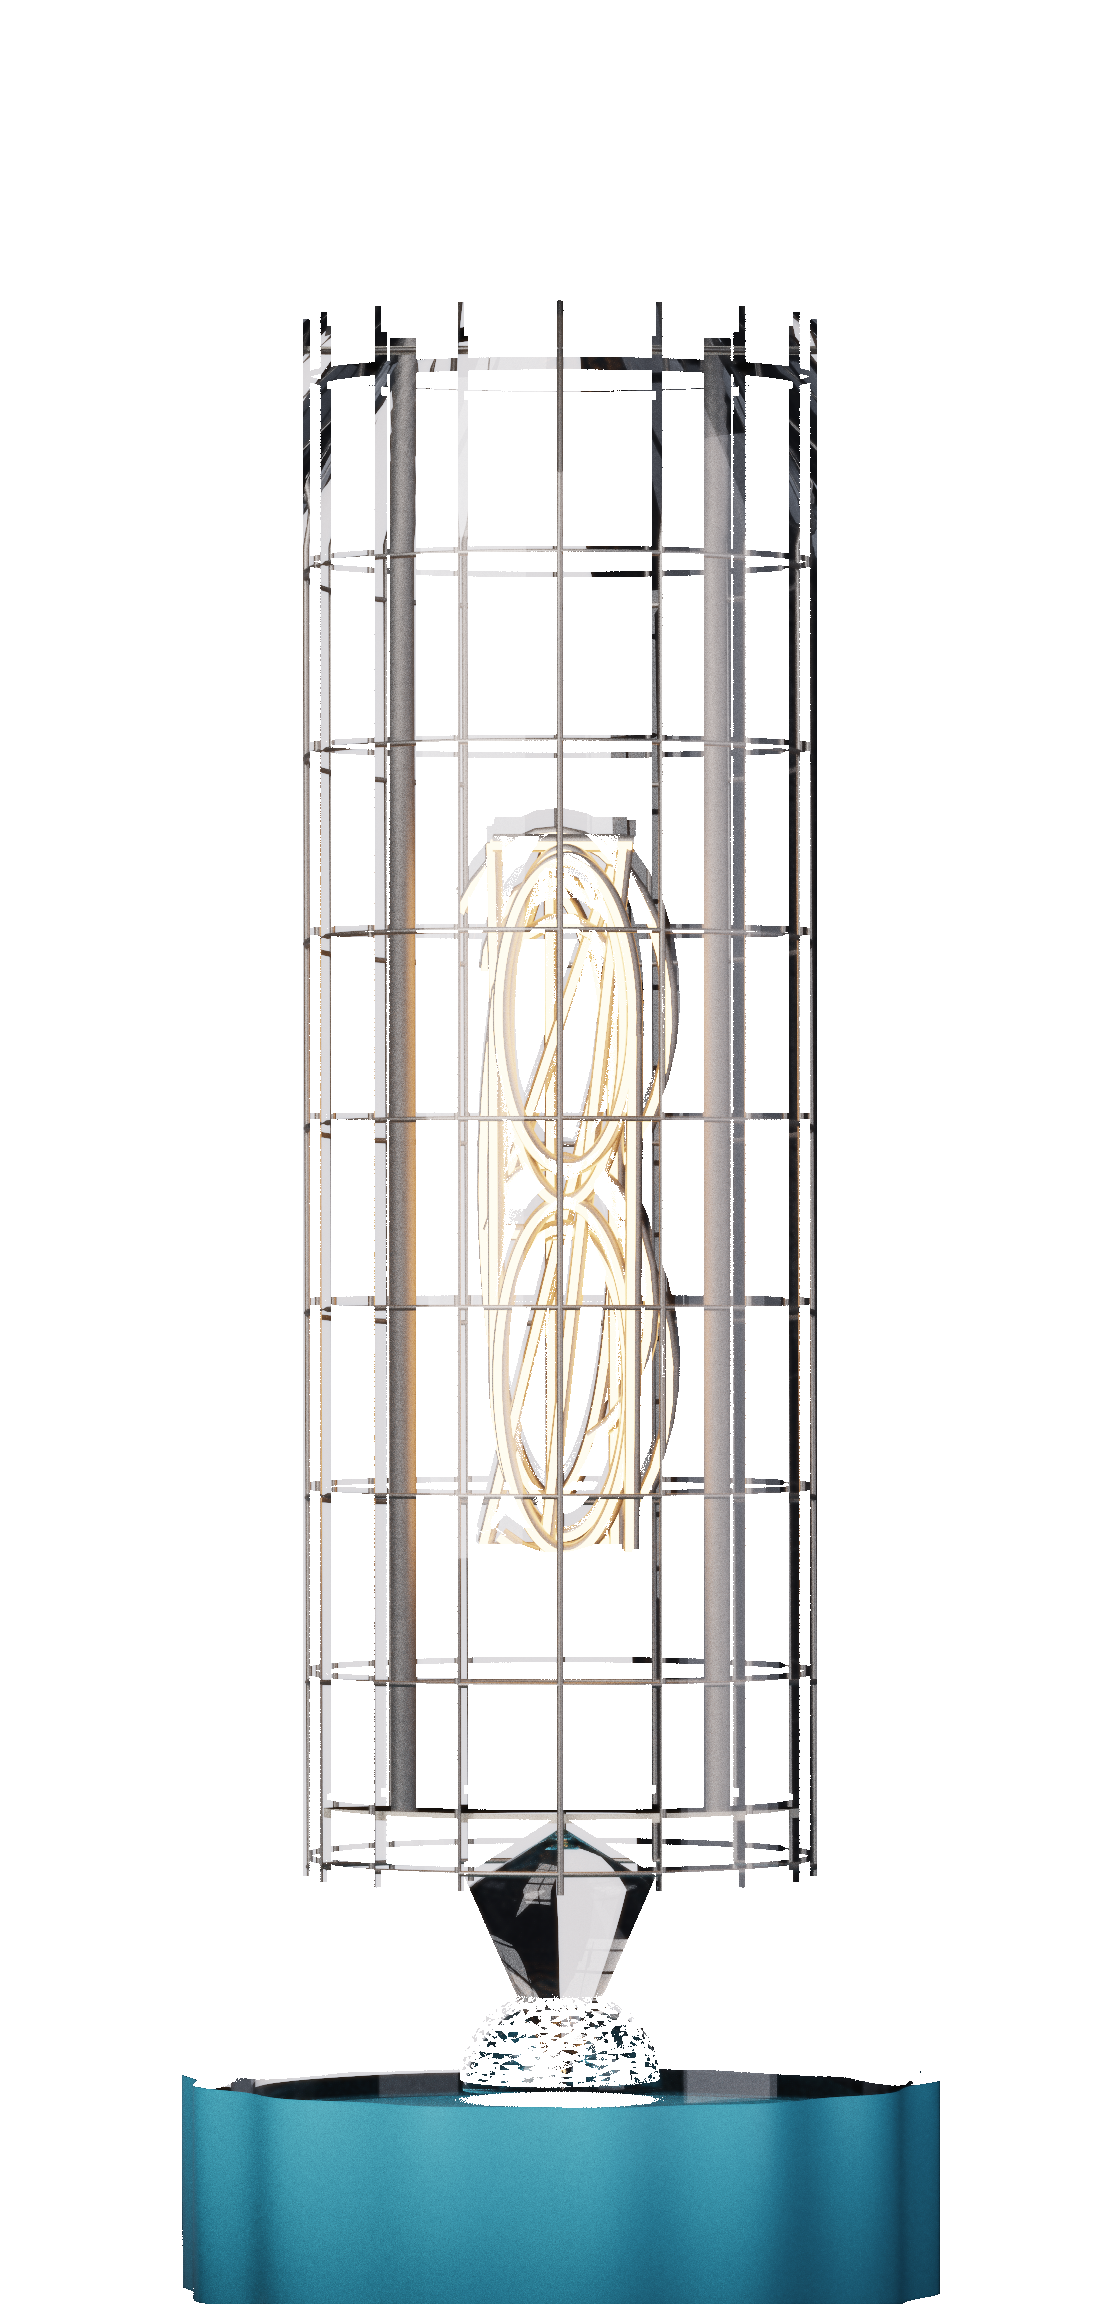
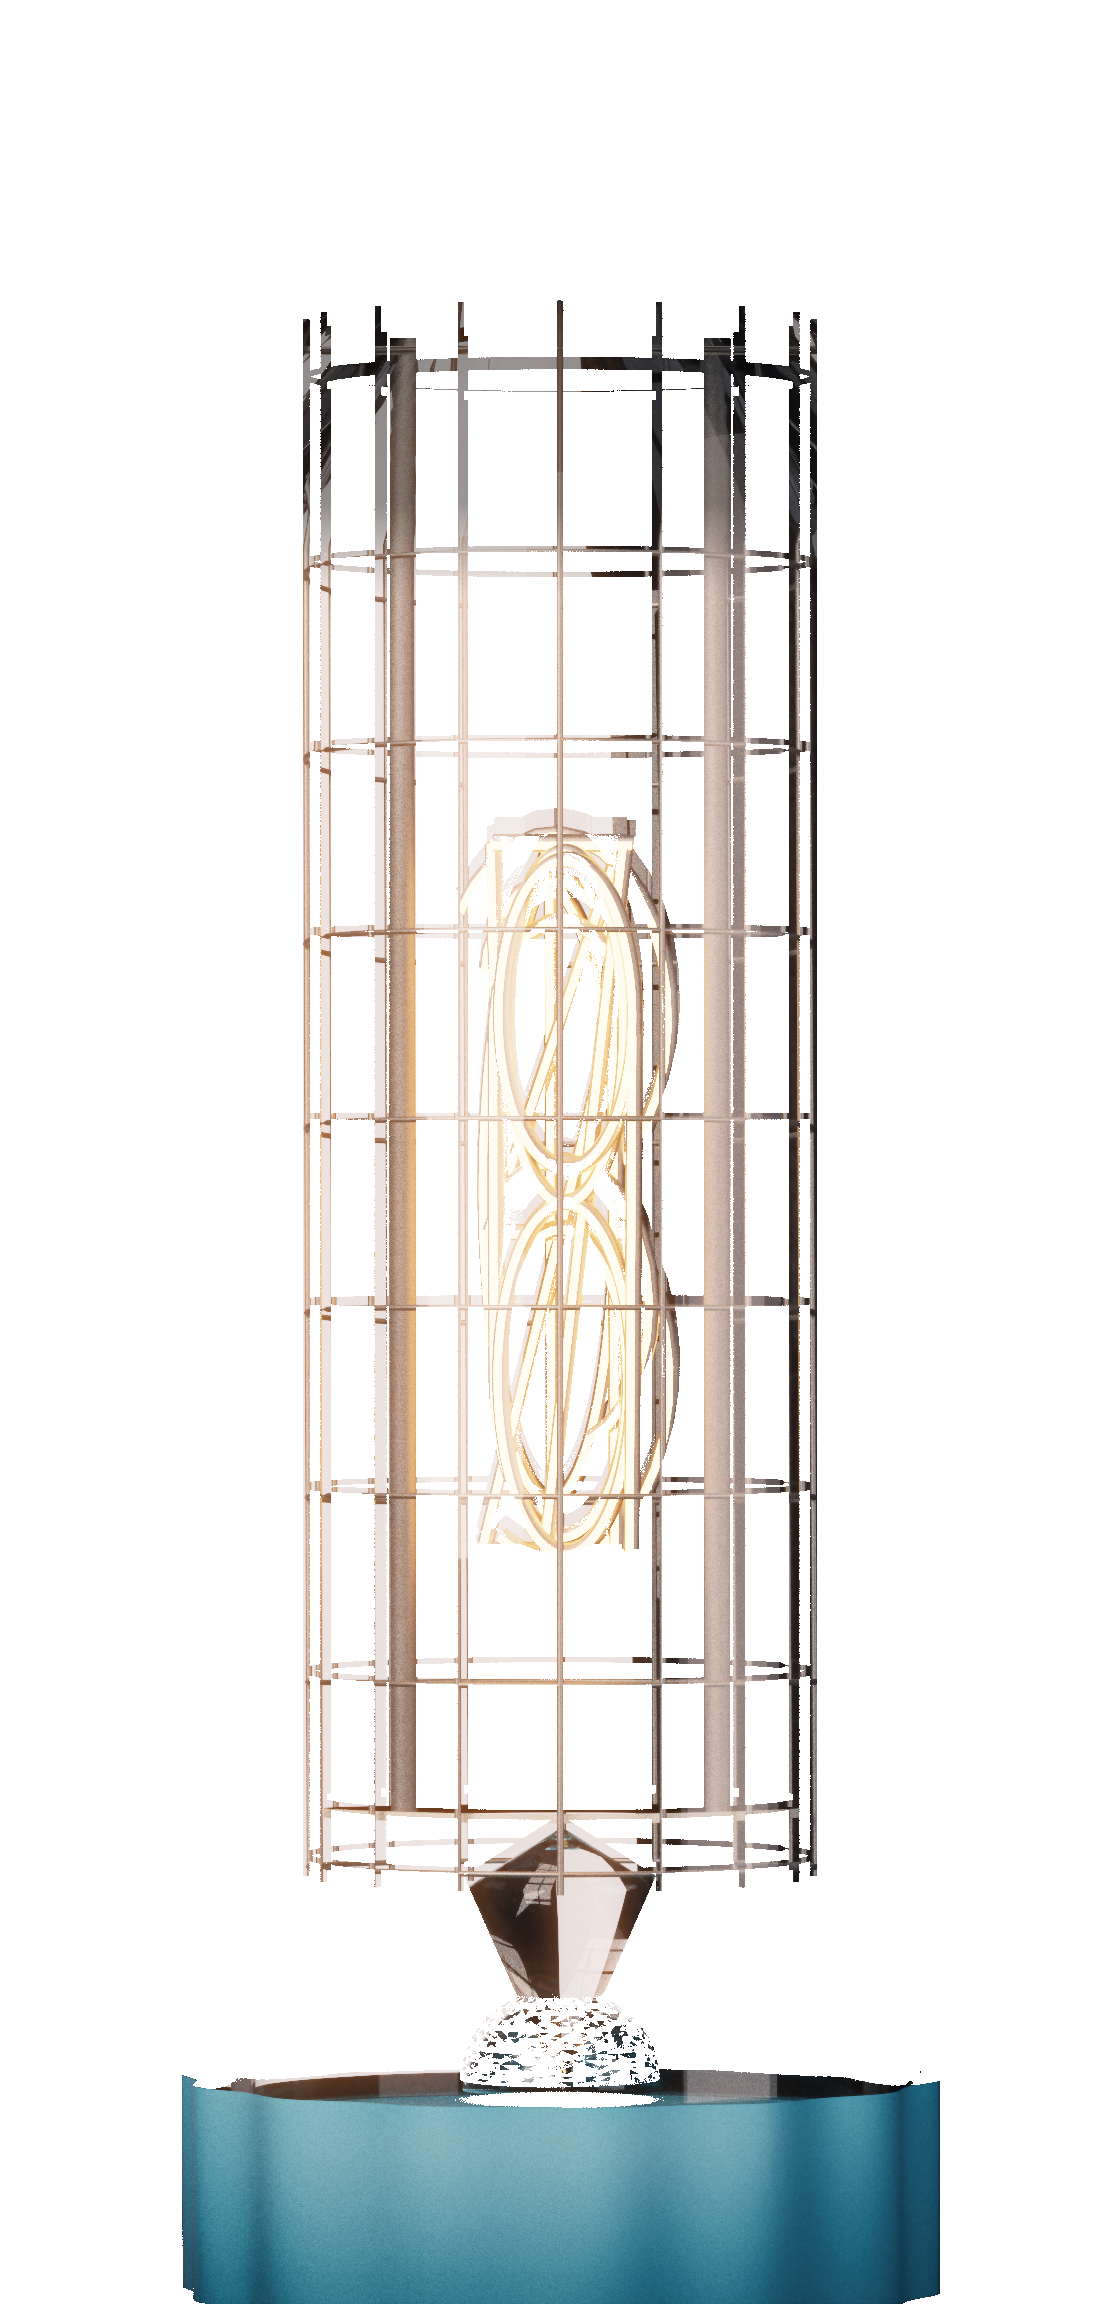
[greeter] Let the discharge glow like gas, and shade the collar where it meets the glass
Две правки по замечаниям моделей: свечение читалось как нарисованная линия, а
цоколь был освещён ровно, как наклейка.

- ореол разряда теперь двух масштабов: узкий 1.4 px держит тело нити, широкий
  22 px даёт туманную подушку газа вокруг. Один радиус давал либо линию, либо
  туман — сравнивал три варианта, gemma4:12b и qwen3.5:27b выбрали этот;
- цвет разряда глубже (1.00 / 0.52 / 0.22): неон в никси оранжевый, а не
  бледно-янтарный;
- контактная тень на цоколе: он темнеет на 38% у линии, где стекло переходит в
  металл, и светлеет к низу за 2.4 мм. Свет с боксов падал на цоколь ровно, и
  он висел над трубкой отдельным предметом.

Замеры: доля средних по яркости пикселей вокруг цифр 49.8% — это и есть гало
(было ~30%); цоколь на экране RGB 37/39/40 против 63/70/39 со старым ореолом.

diff --git a/scripts/dev/nixie-sprite/post.py b/scripts/dev/nixie-sprite/post.py
@@ -190,23 +190,39 @@ def main(beauty, out, exposure=0.55):
     # Bloom: a discharge in gas glows far past the wire it burns on, and without
     # that halo the numerals read as printed lines instead of a discharge. The
     # veins are the ones that bleed, and the core keeps its own brightness.
-    vein = np.clip((lum - 0.35) / 0.40, 0.0, 1.0) ** 1.6
-    core = np.clip((lum - 0.55) / 0.45, 0.0, 1.0)
-    vein = vein * (1.0 - 0.60 * core)
+    vein = np.clip((lum - 0.30) / 0.40, 0.0, 1.0) ** 1.4
+    core = np.clip((lum - 0.60) / 0.40, 0.0, 1.0)
+    vein = vein * (1.0 - 0.35 * core)
+
+    # Two scales of it: a tight one that stays on the wire and gives the numeral
+    # its body, and a wide faint one that is the gas itself. One radius alone
+    # reads either as a printed line or as a fog, never as a discharge.
     if vein.max() > 0.01:
-        halo = (
-            np.asarray(
-                Image.fromarray((vein * 255).astype("uint8"), "L").filter(
-                    ImageFilter.GaussianBlur(2.6)
-                ),
-                np.float32,
+        rgb = np.clip(rgb, 0.0, 1.0)
+        # the discharge of neon in a nixie is a deep orange, not a pale amber
+        tint = np.array([1.00, 0.52, 0.22], np.float32)
+        for radius, strength in ((1.4, 0.40), (22.0, 0.70)):
+            halo = (
+                np.asarray(
+                    Image.fromarray((vein * 255).astype("uint8"), "L").filter(
+                        ImageFilter.GaussianBlur(radius)
+                    ),
+                    np.float32,
+                )
+                / 255.0
             )
-            / 255.0
-        )
-        tint = np.array([1.00, 0.62, 0.32], np.float32)
-        rgb = 1.0 - (1.0 - rgb) * (
-            1.0 - np.clip(halo, 0, 1)[..., None] * tint * 0.45
-        )
+            rgb = 1.0 - (1.0 - rgb) * (
+                1.0 - np.clip(halo, 0, 1)[..., None] * tint * strength
+            )
+            rgb = np.clip(rgb, 0.0, 1.0)
+
+    # The collar sits in the shade of the envelope it carries: the glass ends right
+    # above it and takes the studio light with it, so the metal is darkest at the
+    # line where the two meet and comes back to full light lower down. Without it
+    # the collar is lit edge to edge and floats above the tube like a sticker.
+    contact = np.clip((-Y - (-H / 2.0 + BASE * 0.62 + 1.2)) / 2.4, 0.0, 1.0)
+    contact = 1.0 - 0.38 * (1.0 - contact) ** 1.15
+    rgb = rgb * contact[..., None]
 
     # The alpha is per material, from two flat coverage passes: the metal (wires,
     # cage, collar) is opaque, the glass is not. Modulating the glass by its own
